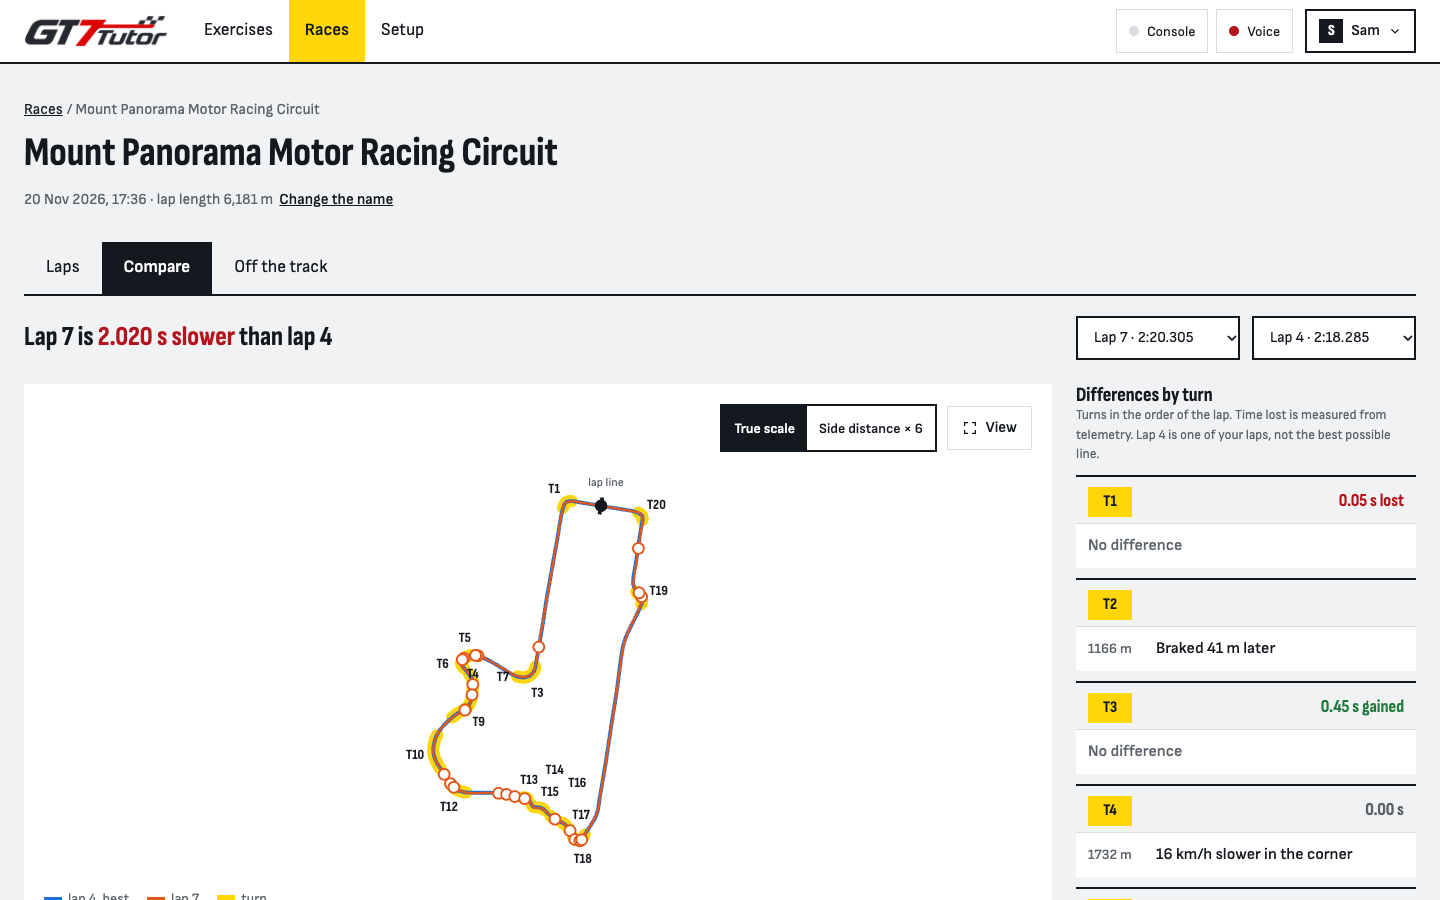
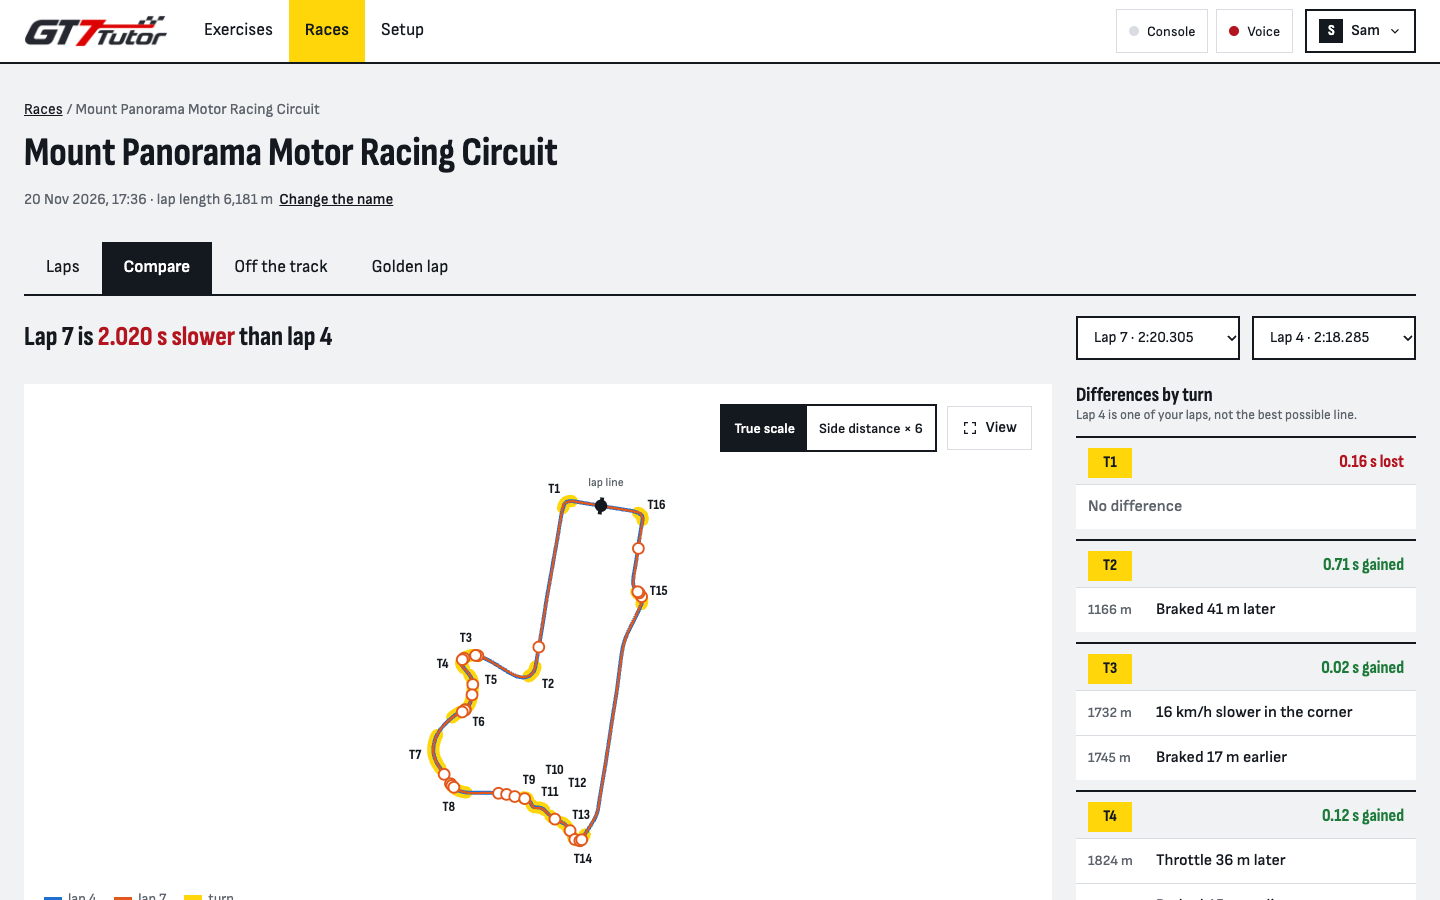
fix: show the current race screens on the landing

diff --git a/site/index.html b/site/index.html
@@ -127,14 +127,14 @@
           <h3>Record a race, lap by lap</h3>
           <p>On the Races screen, select Record a race (on a phone: Record), then start a race of 2 or more laps in the game. The recording starts and stops with the race. After the race, the lap table shows each lap time with the gap to your best lap, your position, the top speed and the moments off the track. A pit stop shows its time in the pit lane and the fuel before and after.</p>
         </div>
-        <img src="assets/screenshots/race-laps-desktop.webp" alt="The Laps tab of a recorded race of 7 laps at Mount Panorama: the race time 17:09.768, the best lap 2:18.285 on lap 4, the position from 20 to 2, the lap table with a pit stop of 35.48 s and fuel 38 to 100, and the chart Position in the race." width="1440" height="900" loading="lazy">
+        <img src="assets/screenshots/race-laps-desktop.webp" alt="The Laps tab of a recorded race of 7 laps at Mount Panorama, next to the tabs Compare, Off the track and Golden lap: the race time 17:09.768, the best lap 2:18.285 on lap 4, the position from 20 to 2, the lap table with a pit stop of 35.48 s and fuel 38 to 100, and the chart Position." width="1440" height="900" loading="lazy">
       </li>
       <li>
         <div class="step-text">
           <h3>Compare two laps of a race</h3>
           <p>Pick any two laps of the race. The map, the speed and pedal charts and the time lost by turn show where one lap was faster than the other. The Off the track tab marks each moment with two or more wheels off the track, and the places where it happened in 3 or more laps.</p>
         </div>
-        <img src="assets/screenshots/race-compare-desktop.webp" alt="Compare in a recorded race: Lap 7 is 2.020 s slower than lap 4, the selects of the two laps, the map with both lines and the turns, and the differences by turn, for example Braked 41 m later in turn 2." width="1440" height="900" loading="lazy">
+        <img src="assets/screenshots/race-compare-desktop.webp" alt="Compare in a recorded race: Lap 7 is 2.020 s slower than lap 4, the selects of the two laps, the map with both lines and the turns T1 to T16, and the differences by turn, for example 0.71 s gained and Braked 41 m later in turn 2." width="1440" height="900" loading="lazy">
       </li>
     </ol>
   </section>
